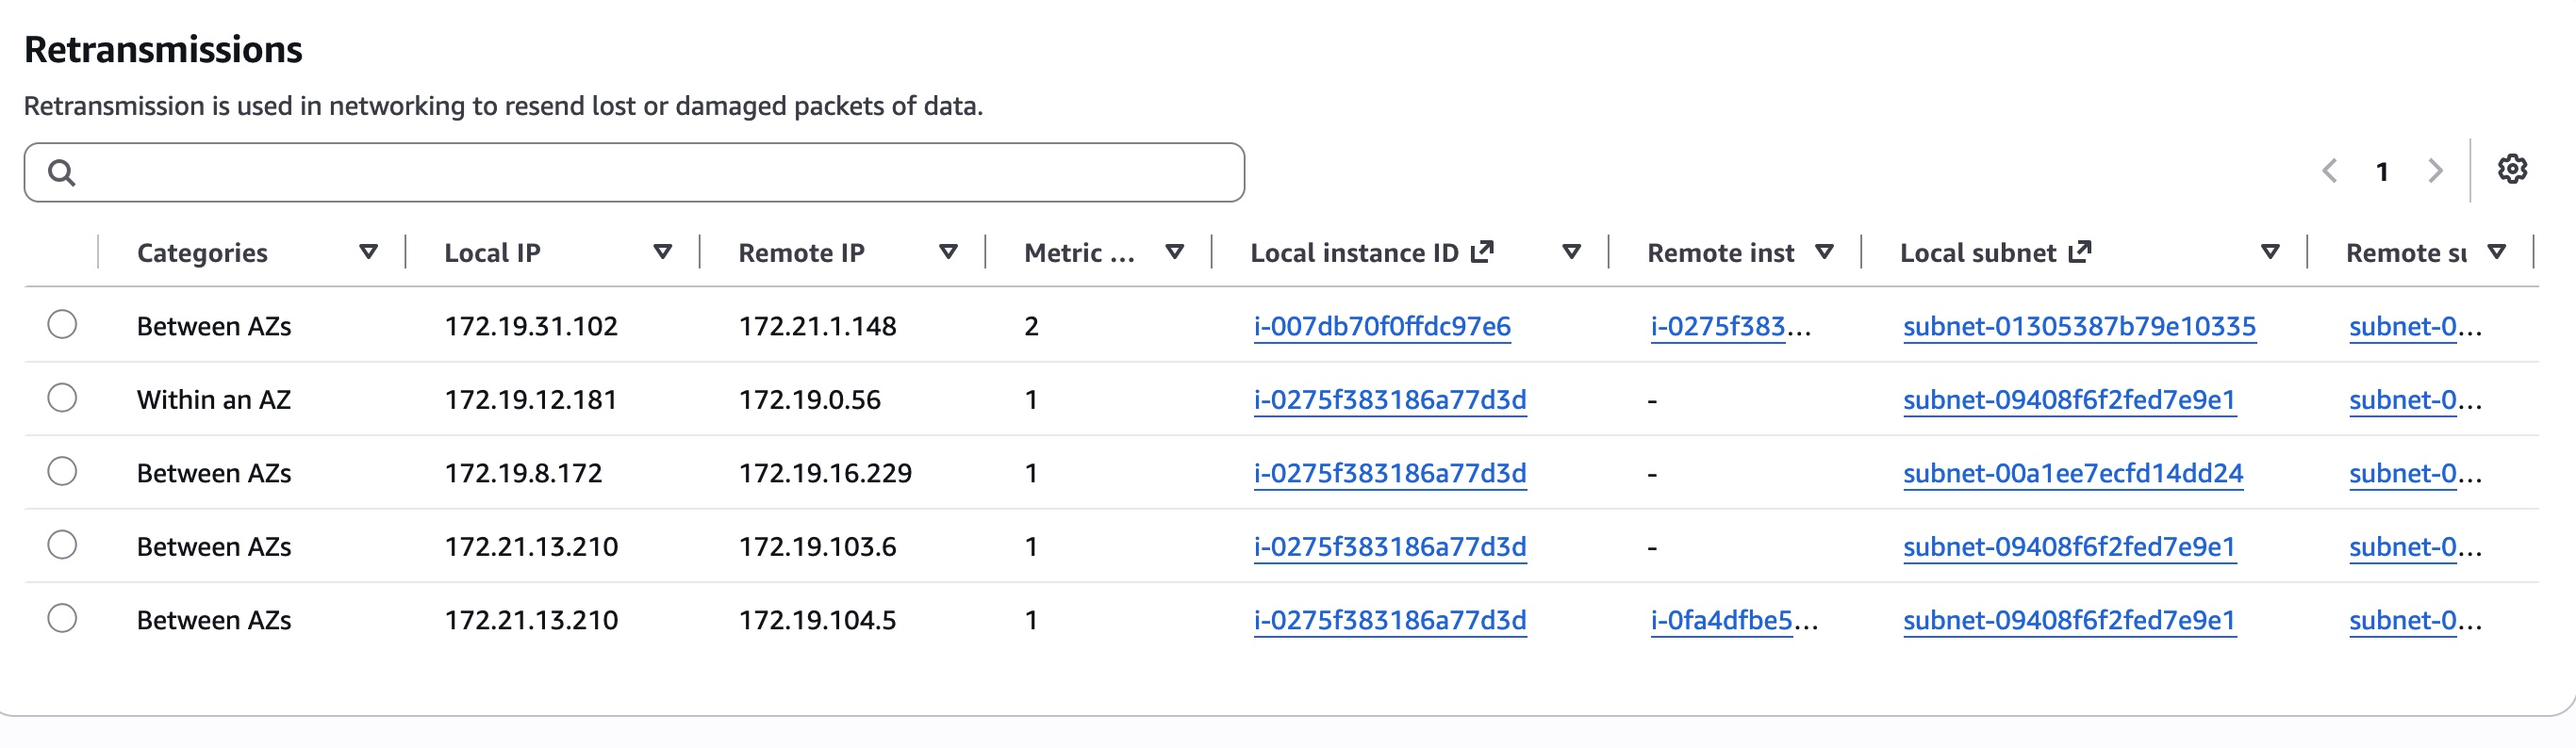
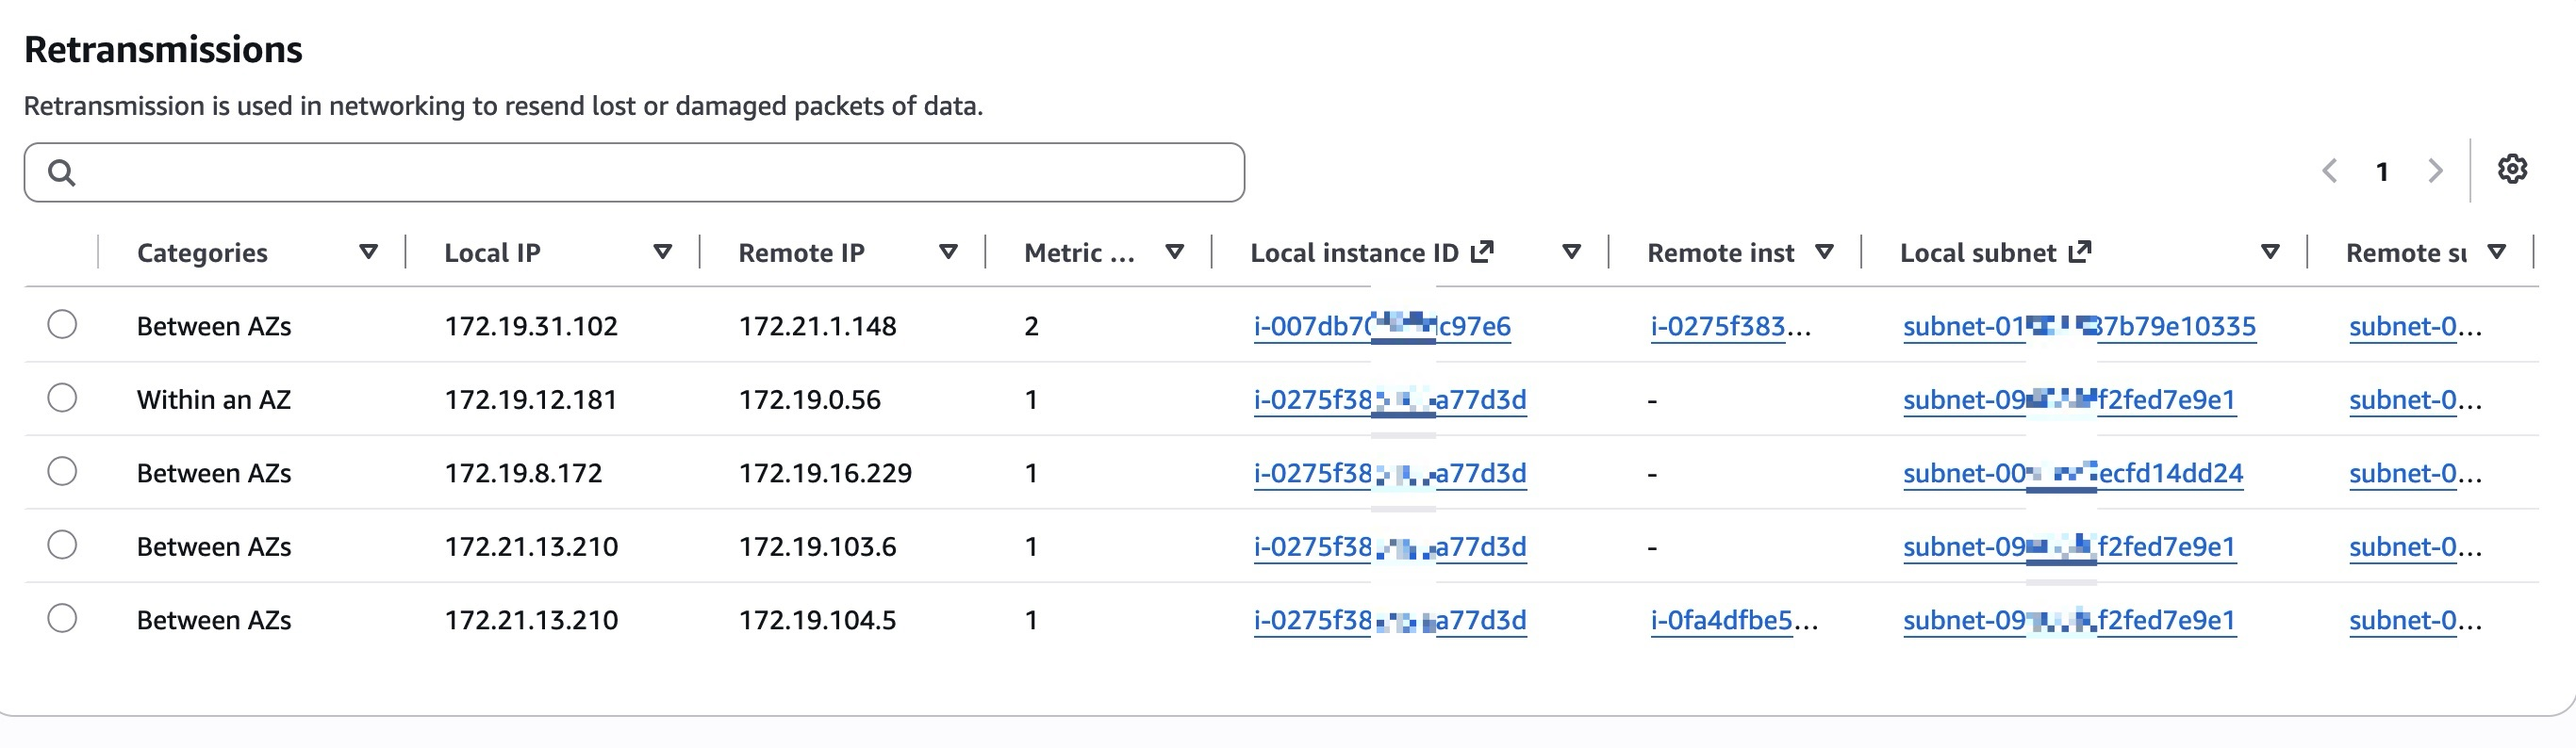
upload clean files

diff --git a/EKS-Network-Observability/solution-design-nfm-general-en.md b/EKS-Network-Observability/solution-design-nfm-general-en.md
@@ -1,0 +1,193 @@
+# EKS Network Observability — Solution Design
+
+## Problem Statement
+
+The EKS production cluster experiences intermittent TCP connection latency between application pods and an external database accessed via cross-account VPC PrivateLink endpoint.
+
+Current troubleshooting is limited to:
+- Customer-side slow logs (application layer only)
+- AWS infrastructure investigation (requires case escalation, post-hoc)
+
+There is no continuous, pod-level network performance baseline to distinguish between AWS infrastructure issues and application/third-party (database provider) issues.
+
+## Proposed Solution
+
+Deploy **Amazon CloudWatch Network Flow Monitor (NFM)** with the **EKS Container Network Observability** feature to provide continuous, pod-level TCP performance monitoring.
+
+## Architecture
+
+```
+┌─────────────────────────────────────────────────────────────────┐
+│  EKS Cluster (<CLUSTER_NAME>, <REGION>)                         │
+│                                                                 │
+│  ┌─────────────┐  ┌─────────────┐  ┌─────────────┐            │
+│  │  App Pod    │  │  App Pod    │  │  App Pod    │            │
+│  │  (DB client)│  │  (DB client)│  │  (DB client)│            │
+│  └──────┬──────┘  └──────┬──────┘  └──────┬──────┘            │
+│         │                 │                 │                    │
+│  ┌──────┴─────────────────┴─────────────────┴──────┐           │
+│  │           Worker Node (<INSTANCE_TYPE>)          │           │
+│  │  ┌──────────────────────────────────────────┐   │           │
+│  │  │  NFM Agent (DaemonSet, eBPF-based)       │   │           │
+│  │  │  - Captures TCP flow metrics per pod     │   │           │
+│  │  │  - Reports every 30s to NFM backend      │   │           │
+│  │  │  - Exposes OpenMetrics for Prometheus     │   │           │
+│  │  └──────────────────────────────────────────┘   │           │
+│  └─────────────────────────────────────────────────┘           │
+│                                                                 │
+└──────────────────────────┬──────────────────────────────────────┘
+                           │ TCP flows via VPC Endpoint
+                           ▼
+              ┌────────────────────────┐
+              │  External Database     │
+              │  (PrivateLink service) │
+              └────────────────────────┘
+```
+
+## What You Get
+
+### Flow-Level Metrics (per source pod to destination)
+
+| Metric | Description | Use Case |
+|--------|-------------|----------|
+| TCP Retransmissions (RT) | Packets re-sent due to loss or corruption | Detect packet loss between pod and endpoint |
+| TCP Retransmission Timeouts (RTO) | Sender timer expired without ACK | Detect sustained connectivity issues (more severe than RT) |
+| Data Transferred (bytes) | Volume per flow | Baseline normal traffic; detect anomalies |
+| Round-Trip Time (RTT) | TCP handshake latency | Measure network path latency |
+
+### System Metrics (per pod/node, Prometheus-scrapable)
+
+| Metric | Description | Use Case |
+|--------|-------------|----------|
+| `ingress_flow` / `egress_flow` | TCP connection counts | Track connection churn |
+| `ingress_bytes` / `egress_bytes` | Byte counters | Bandwidth utilization |
+| `bw_in_allowance_exceeded` | Inbound bandwidth limit hit | **Direct evidence of host-level contention** |
+| `bw_out_allowance_exceeded` | Outbound bandwidth limit hit | **Direct evidence of host-level contention** |
+| `pps_allowance_exceeded` | Packet-per-second limit hit | Network throttling detection |
+| `conntrack_allowance_exceeded` | Connection tracking limit hit | Connection table exhaustion |
+
+### Network Health Indicator (NHI)
+
+- Binary indicator per monitor: was there an **AWS-caused** network impairment?
+- Eliminates guesswork: if NHI = Degraded, the issue is on AWS side; if NHI = Healthy, look at application/provider side
+
+### Console Visualizations (EKS Console > Observability > Network)
+
+- **Service Map**: Visual graph of pod-to-pod communication with RT/RTO/DT overlays
+- **Flow Table**: Top talkers ranked by retransmissions — filterable by:
+  - Cluster view (intra-AZ, inter-AZ)
+  - AWS service view (pods to S3/DynamoDB)
+  - External view (pods to VPCE/internet)
+
+## Implementation Steps
+
+### Step 1: Create NFM Scope (one-time per account)
+
+```bash
+ACCOUNT_ID="<ACCOUNT_ID>"
+REGION="<REGION>"
+
+aws networkflowmonitor create-scope \
+  --targets "[{\"targetIdentifier\":{\"targetId\":{\"accountId\":\"${ACCOUNT_ID}\"},\"targetType\":\"ACCOUNT\"},\"region\":\"${REGION}\"}]" \
+  --region $REGION
+```
+
+### Step 2: Install NFM Agent EKS Add-on
+
+```bash
+aws eks create-addon \
+  --cluster-name <CLUSTER_NAME> \
+  --addon-name aws-network-flow-monitoring-agent \
+  --region <REGION>
+```
+
+IAM: Attach `CloudWatchNetworkFlowMonitorAgentPublishPolicy` via Pod Identity or IRSA.
+
+### Step 3: Create NFM Monitor with EKS Cluster as Local Resource
+
+```bash
+CLUSTER_ARN="arn:aws:eks:<REGION>:<ACCOUNT_ID>:cluster/<CLUSTER_NAME>"
+SCOPE_ARN="<from step 1>"
+
+aws networkflowmonitor create-monitor \
+  --monitor-name "<MONITOR_NAME>" \
+  --local-resources "type=AWS::EKS::Cluster,identifier=${CLUSTER_ARN}" \
+  --remote-resources "type=AWS::Region,identifier=<REGION>" \
+  --scope-arn "$SCOPE_ARN" \
+  --region <REGION>
+```
+
+### Step 4 (Optional): Enable Prometheus Scraping
+
+Override add-on configuration to expose OpenMetrics endpoint:
+
+```yaml
+OPEN_METRICS: "on"
+OPEN_METRICS_ADDRESS: "0.0.0.0"
+OPEN_METRICS_PORT: "9090"
+```
+
+Then configure your Prometheus stack to scrape the NFM agent pods on port 9090.
+
+## Key Design Decisions
+
+| Decision | Rationale |
+|----------|-----------|
+| Local resource = EKS cluster (not subnet) | Enables pod-level granularity with namespace/node metadata |
+| Remote resource = Region | Captures all traffic including to VPCE endpoints |
+| NFM agent via EKS add-on (not standalone) | DaemonSet with pod metadata enrichment |
+| OpenMetrics enabled | Integrates with existing Prometheus/Grafana stack |
+
+## How This Solves the Problem
+
+| Current State | With NFM |
+|---------------|----------|
+| Customer reports "latency jitter" from app logs | Continuous RT/RTO metrics per pod, per destination |
+| Must open support case for infrastructure investigation | Self-service: check NHI for AWS attribution |
+| Cannot distinguish AWS infra vs database provider issue | Flow metrics show exactly where retransmissions occur |
+| "Noisy neighbor" claim without evidence | `bw_*_allowance_exceeded` metrics prove/disprove host contention |
+| Post-hoc investigation only | Real-time alerting on RT/RTO spikes |
+
+## Prerequisites
+
+- EKS cluster version: any supported version
+- NFM agent add-on minimum: v1.1.0
+- Pods must NOT use `hostNetwork: true` (pods need their own network namespace)
+- IAM: `CloudWatchNetworkFlowMonitorAgentPublishPolicy` for NFM agent pods
+
+## Limitations
+
+- Top Contributors API aggregates over 1-hour windows (not real-time per-second)
+- Agent collects top 500 flows by data volume every 30 seconds
+- RTT data can be sparse (not calculated for every flow)
+- NFM supported regions: check availability
+- Scale limit: ~5,000 worker nodes per account with NFM agent
+
+## Cost
+
+- Network Flow Monitor pricing: based on number of metrics published
+- No additional EC2/network charges (eBPF-based, negligible CPU/memory overhead)
+- See: https://aws.amazon.com/cloudwatch/pricing/ (Network Flow Monitor section)
+
+## Next Steps
+
+1. Deploy NFM on target EKS cluster
+2. Establish 1-week baseline of RT/RTO for application pods -> database endpoint flows
+3. Set CloudWatch Alarm on RT spike (threshold TBD based on baseline)
+4. On next occurrence of latency jitter, check:
+   - NHI value (AWS attribution)
+   - `bw_*_allowance_exceeded` (host contention evidence)
+   - RT/RTO for specific pod -> endpoint flow (pinpoint affected pods)
+5. Use evidence to drive resolution: dedicated instances (if allowance exceeded), database provider investigation (if NHI healthy + no allowance exceeded), or AWS case with concrete data
+
+ref:
+
+![alt text](Capture-2026-08-21_13-35-47.jpg)
+
+![alt text](Capture-2026-08-21_13-36-45.jpg)
+
+![alt text](Capture-2026-08-21_16-12-02.jpg)
+
+![alt text](Capture-2026-08-21_16-11-50.jpg)
+
+![alt text](Capture-2026-08-21_16-11-43.jpg)

diff --git a/EKS-Network-Observability/solution-design-nfm-general-zh.md b/EKS-Network-Observability/solution-design-nfm-general-zh.md
@@ -1,0 +1,193 @@
+# EKS 网络可观测性 — 方案设计
+
+## 问题描述
+
+EKS 生产集群的应用 Pod 与外部数据库（通过跨账号 VPC PrivateLink 端点访问）之间出现间歇性 TCP 连接延迟抖动。
+
+当前排查手段局限于：
+- 客户侧慢日志（仅应用层）
+- AWS 基础设施调查（需提交工单，事后分析）
+
+目前缺少持续的、Pod 级别的网络性能基线，无法区分 AWS 基础设施问题与应用/第三方（数据库提供商）问题。
+
+## 建议方案
+
+部署 **Amazon CloudWatch Network Flow Monitor (NFM)** 并启用 **EKS 容器网络可观测性** 功能，实现持续的 Pod 级 TCP 性能监控。
+
+## 架构
+
+```
+┌─────────────────────────────────────────────────────────────────┐
+│  EKS 集群 (<CLUSTER_NAME>, <REGION>)                            │
+│                                                                 │
+│  ┌─────────────┐  ┌─────────────┐  ┌─────────────┐            │
+│  │  应用 Pod   │  │  应用 Pod   │  │  应用 Pod   │            │
+│  │  (DB 客户端)│  │  (DB 客户端)│  │  (DB 客户端)│            │
+│  └──────┬──────┘  └──────┬──────┘  └──────┬──────┘            │
+│         │                 │                 │                    │
+│  ┌──────┴─────────────────┴─────────────────┴──────┐           │
+│  │           工作节点 (<INSTANCE_TYPE>)              │           │
+│  │  ┌──────────────────────────────────────────┐   │           │
+│  │  │  NFM Agent (DaemonSet, 基于 eBPF)        │   │           │
+│  │  │  - 按 Pod 粒度采集 TCP 流量指标           │   │           │
+│  │  │  - 每 30 秒上报至 NFM 后端               │   │           │
+│  │  │  - 暴露 OpenMetrics 接口供 Prometheus 抓取│   │           │
+│  │  └──────────────────────────────────────────┘   │           │
+│  └─────────────────────────────────────────────────┘           │
+│                                                                 │
+└──────────────────────────┬──────────────────────────────────────┘
+                           │ TCP 流量通过 VPC Endpoint
+                           ▼
+              ┌────────────────────────┐
+              │  外部数据库             │
+              │  (PrivateLink 服务)    │
+              └────────────────────────┘
+```
+
+## 获得的能力
+
+### 流级别指标（按源 Pod 到目标的粒度）
+
+| 指标 | 说明 | 用途 |
+|------|------|------|
+| TCP 重传次数 (RT) | 因丢包或损坏而重新发送的数据包数 | 检测 Pod 与端点之间的丢包情况 |
+| TCP 重传超时次数 (RTO) | 发送方等待 ACK 超时的次数 | 检测持续性连接问题（比 RT 更严重） |
+| 传输数据量 (bytes) | 每条流的传输字节数 | 建立正常流量基线；检测异常 |
+| 往返时间 (RTT) | TCP 握手延迟 | 测量网络路径延迟 |
+
+### 系统指标（按 Pod/节点粒度，可被 Prometheus 抓取）
+
+| 指标 | 说明 | 用途 |
+|------|------|------|
+| `ingress_flow` / `egress_flow` | TCP 连接数 | 跟踪连接变化 |
+| `ingress_bytes` / `egress_bytes` | 字节计数器 | 带宽利用率 |
+| `bw_in_allowance_exceeded` | 入站带宽限制被触发 | **直接证明主机级别争抢** |
+| `bw_out_allowance_exceeded` | 出站带宽限制被触发 | **直接证明主机级别争抢** |
+| `pps_allowance_exceeded` | 每秒包数限制被触发 | 检测网络节流 |
+| `conntrack_allowance_exceeded` | 连接跟踪表限制被触发 | 连接表耗尽检测 |
+
+### 网络健康指示器 (NHI)
+
+- 每个 Monitor 的二值指标：是否存在 **AWS 基础设施导致** 的网络问题？
+- 消除猜测：NHI = Degraded 说明问题在 AWS 侧；NHI = Healthy 则应排查应用/提供商侧
+
+### 控制台可视化（EKS 控制台 > 可观测性 > 网络）
+
+- **服务拓扑图 (Service Map)**：Pod 间通信的可视化图形，叠加 RT/RTO/DT 指标
+- **流量表 (Flow Table)**：按重传次数排名的 Top Talker，支持筛选：
+  - 集群视图（同 AZ 内、跨 AZ）
+  - AWS 服务视图（Pod 到 S3/DynamoDB）
+  - 外部视图（Pod 到 VPCE/互联网）
+
+## 实施步骤
+
+### 步骤 1：创建 NFM Scope（每账号一次）
+
+```bash
+ACCOUNT_ID="<ACCOUNT_ID>"
+REGION="<REGION>"
+
+aws networkflowmonitor create-scope \
+  --targets "[{\"targetIdentifier\":{\"targetId\":{\"accountId\":\"${ACCOUNT_ID}\"},\"targetType\":\"ACCOUNT\"},\"region\":\"${REGION}\"}]" \
+  --region $REGION
+```
+
+### 步骤 2：安装 NFM Agent EKS 插件
+
+```bash
+aws eks create-addon \
+  --cluster-name <CLUSTER_NAME> \
+  --addon-name aws-network-flow-monitoring-agent \
+  --region <REGION>
+```
+
+IAM 权限：通过 Pod Identity 或 IRSA 关联 `CloudWatchNetworkFlowMonitorAgentPublishPolicy`。
+
+### 步骤 3：创建 NFM Monitor（以 EKS 集群为本地资源）
+
+```bash
+CLUSTER_ARN="arn:aws:eks:<REGION>:<ACCOUNT_ID>:cluster/<CLUSTER_NAME>"
+SCOPE_ARN="<步骤 1 返回的 ARN>"
+
+aws networkflowmonitor create-monitor \
+  --monitor-name "<MONITOR_NAME>" \
+  --local-resources "type=AWS::EKS::Cluster,identifier=${CLUSTER_ARN}" \
+  --remote-resources "type=AWS::Region,identifier=<REGION>" \
+  --scope-arn "$SCOPE_ARN" \
+  --region <REGION>
+```
+
+### 步骤 4（可选）：启用 Prometheus 抓取
+
+覆盖插件配置以暴露 OpenMetrics 端点：
+
+```yaml
+OPEN_METRICS: "on"
+OPEN_METRICS_ADDRESS: "0.0.0.0"
+OPEN_METRICS_PORT: "9090"
+```
+
+然后配置 Prometheus 在 9090 端口抓取 NFM Agent Pod。
+
+## 关键设计决策
+
+| 决策 | 理由 |
+|------|------|
+| 本地资源 = EKS 集群（非子网） | 启用 Pod 级粒度，含 namespace/node 元数据 |
+| 远端资源 = Region | 捕获所有流量，包括到 VPCE 端点的流量 |
+| 通过 EKS 插件部署 NFM Agent（非独立安装） | DaemonSet 方式部署，自动关联 Pod 元数据 |
+| 启用 OpenMetrics | 与现有 Prometheus/Grafana 监控栈集成 |
+
+## 如何解决问题
+
+| 当前状态 | 部署 NFM 后 |
+|----------|-------------|
+| 客户从应用日志报告"延迟抖动" | 持续的 RT/RTO 指标，按 Pod、按目标分组 |
+| 排查需提交工单等待基础设施调查 | 自助查看 NHI 判断是否 AWS 责任 |
+| 无法区分 AWS 基础设施问题 vs 数据库提供商问题 | 流量指标精确显示重传发生在哪个环节 |
+| "邻居干扰"指控缺乏证据 | `bw_*_allowance_exceeded` 指标可证实/证伪主机争抢 |
+| 仅能事后分析 | 可对 RT/RTO 峰值设置实时告警 |
+
+## 前置条件
+
+- EKS 集群版本：任何受支持版本
+- NFM Agent 插件最低版本：v1.1.0
+- Pod 不可使用 `hostNetwork: true`（Pod 需运行在独立网络命名空间）
+- IAM：NFM Agent Pod 需关联 `CloudWatchNetworkFlowMonitorAgentPublishPolicy`
+
+## 限制
+
+- Top Contributors API 按 1 小时窗口聚合（非逐秒实时）
+- Agent 每 30 秒采集数据量最大的前 500 条流
+- RTT 数据可能稀疏（非每条流都计算）
+- NFM 支持区域：需确认可用性
+- 规模上限：单账号约 5,000 个工作节点
+
+## 费用
+
+- Network Flow Monitor 按发布的指标数量计费
+- 无额外 EC2/网络费用（基于 eBPF，CPU/内存开销可忽略）
+- 参见：https://aws.amazon.com/cloudwatch/pricing/（Network Flow Monitor 部分）
+
+## 后续步骤
+
+1. 在目标 EKS 集群部署 NFM
+2. 建立 1 周基线：应用 Pod -> 数据库端点流量的 RT/RTO 水平
+3. 设置 CloudWatch 告警：RT 峰值超过阈值（阈值待基线确定）
+4. 下次发生延迟抖动时检查：
+   - NHI 值（AWS 归因）
+   - `bw_*_allowance_exceeded`（主机争抢证据）
+   - 特定 Pod -> 端点流的 RT/RTO（定位受影响 Pod）
+5. 用证据驱动解决：如带宽超限则转用专用实例；如 NHI 正常且无超限则排查数据库提供商；如有具体数据则提交 AWS 工单
+
+ref:
+
+![alt text](Capture-2026-08-21_13-35-47.jpg)
+
+![alt text](Capture-2026-08-21_13-36-45.jpg)
+
+![alt text](Capture-2026-08-21_16-12-02.jpg)
+
+![alt text](Capture-2026-08-21_16-11-50.jpg)
+
+![alt text](Capture-2026-08-21_16-11-43.jpg)
